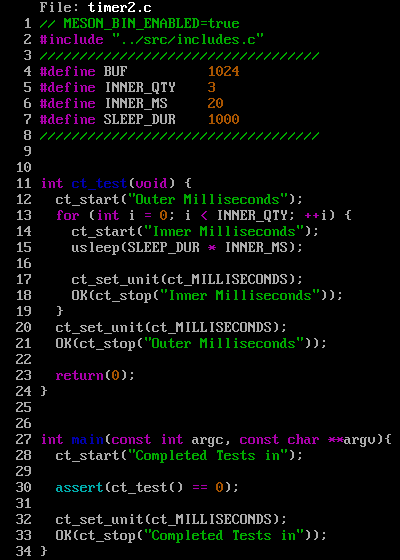
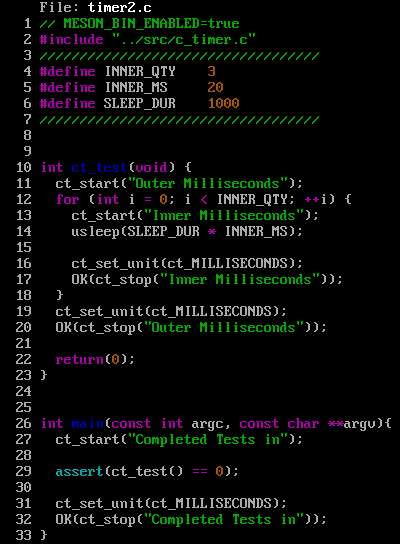
add timer2-invocation.png screenshot

diff --git a/bins/timer2.c b/bins/timer2.c
@@ -1,7 +1,6 @@
 // MESON_BIN_ENABLED=true
-#include "../src/includes.c"
+#include "../src/c_timer.c"
 ///////////////////////////////////
-#define BUF          1024
 #define INNER_QTY    3
 #define INNER_MS     20
 #define SLEEP_DUR    1000

diff --git a/bins/timer1.c b/bins/timer1.c
@@ -1,5 +1,5 @@
 // MESON_BIN_ENABLED=true
-#include "../src/includes.c"
+#include "../src/c_timer.c"
 ///////////////////////////////////
 #define BUF          1024
 #define INNER_QTY    3

diff --git a/bins/timer0.c b/bins/timer0.c
@@ -1,5 +1,5 @@
 // MESON_BIN_ENABLED=true
-#include "../src/includes.c"
+#include "../src/c_timer.c"
 char *str;
 char *enc;
 char *dec;

diff --git a/README.md b/README.md
@@ -27,3 +27,7 @@ This project is built using `meson` and `ninja`.
 4. Usage
 
    ![timer2.c screenshot](./screenshots/timer2.png)
+
+4. Invocation
+
+   ![timer2-invocation.png screenshot](screenshots/timer2-invocation.png)
